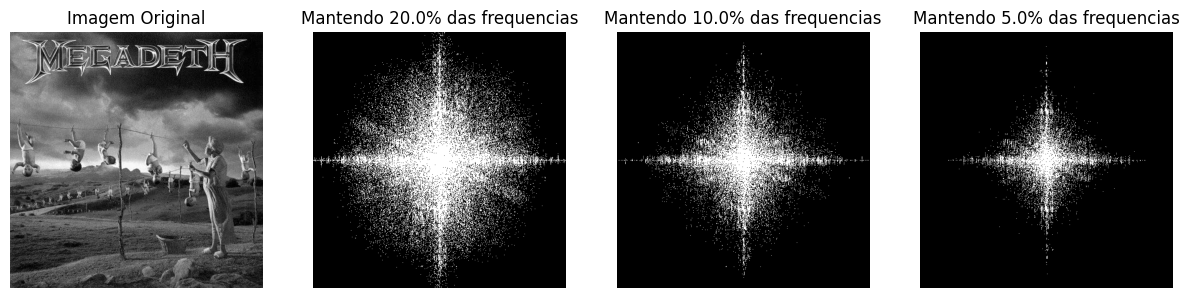
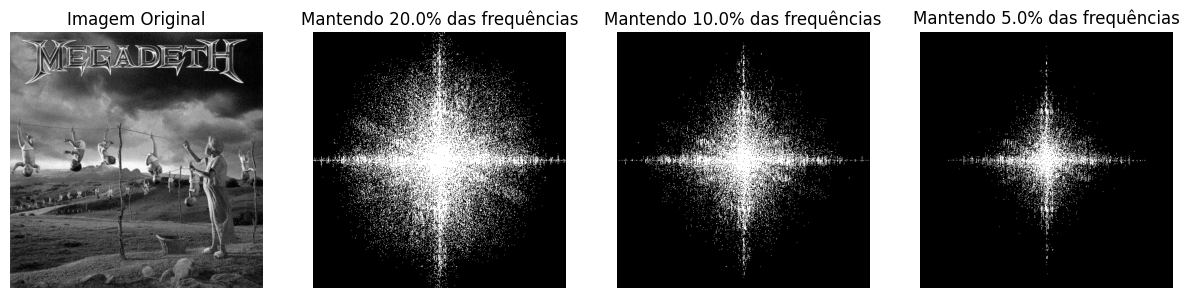
Ajeitando texto do tratamento de compressão.

Changed region(s): [[0.2489, 0.0302, 0.7468, 0.0906], [0.0622, 0.0302, 0.1867, 0.0906]]

diff --git a/image_compression.py b/image_compression.py
@@ -38,7 +38,7 @@ for i, keep in enumerate(compression_levels, start=2):
 
     # Salvando a imagem de cada compressão
     plt.subplot(1, len(compression_levels) + 1, i)
-    plt.title(f"Mantendo {keep*100}% das frequencias")
+    plt.title(f"Mantendo {keep*100}% das frequências")
     plt.imshow(image_compressed, cmap='gray')
     plt.axis('off')
 
